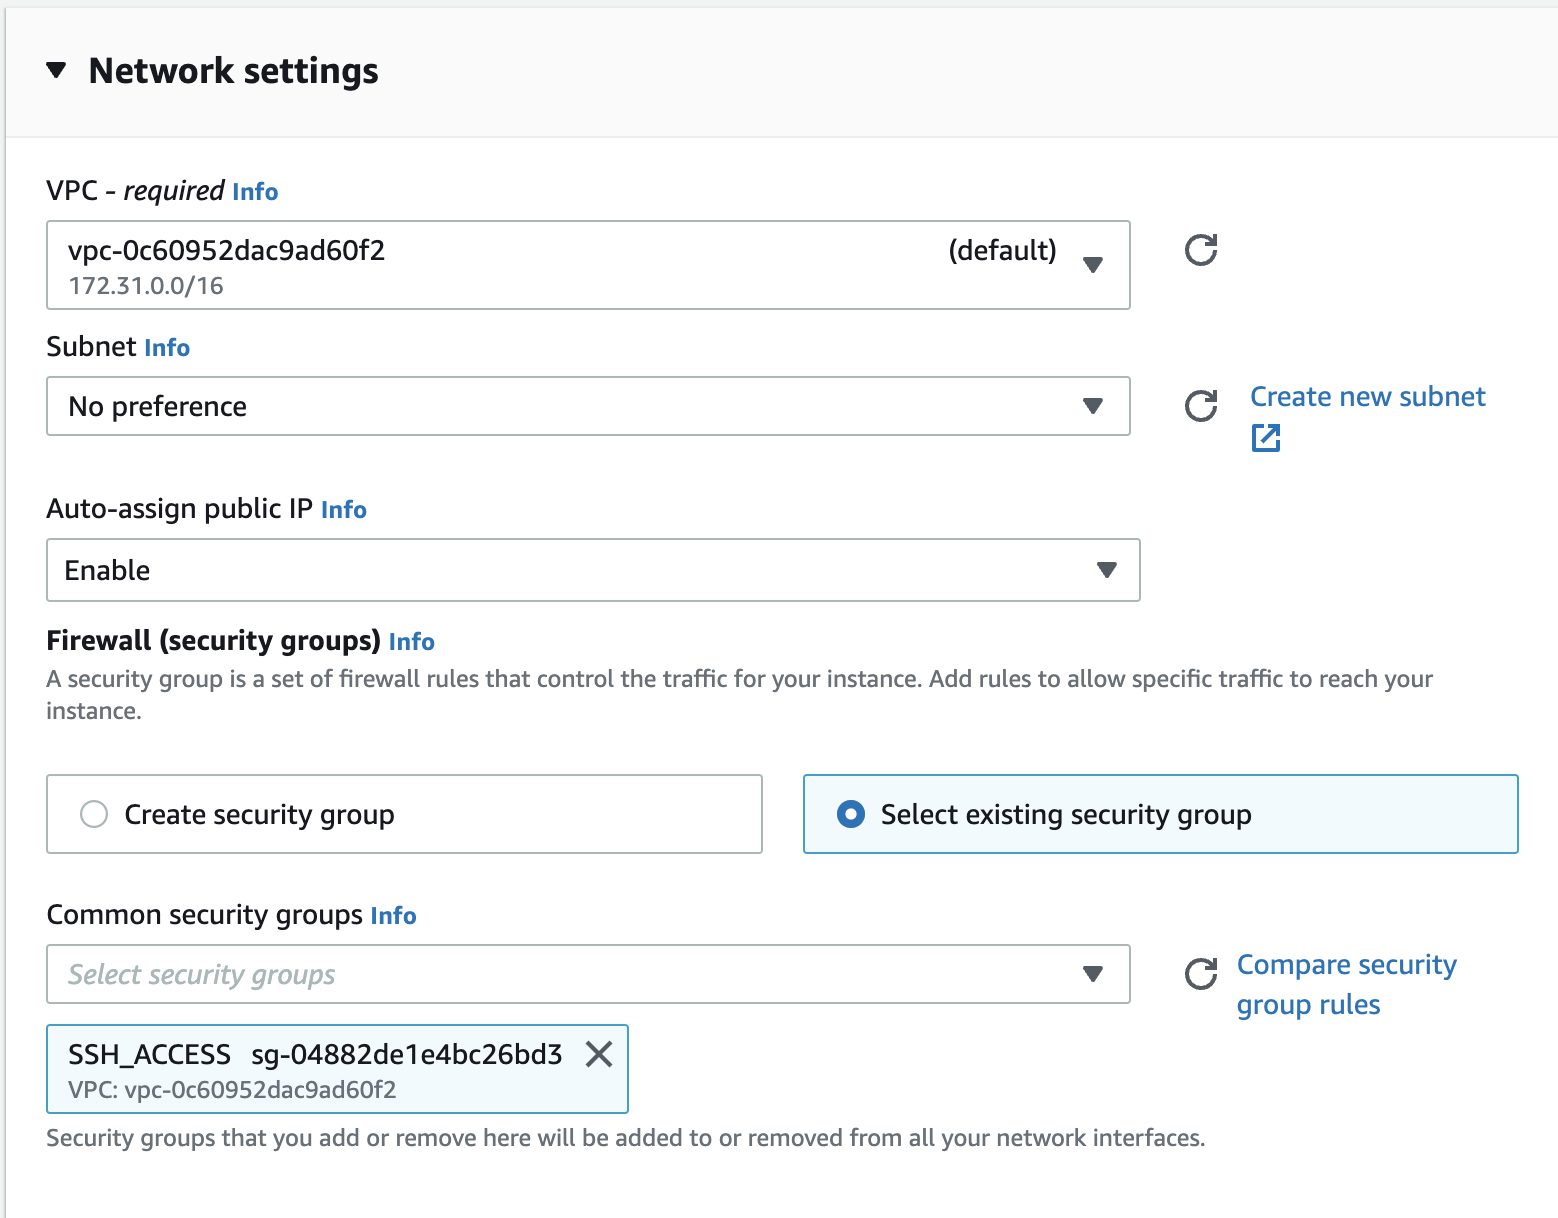
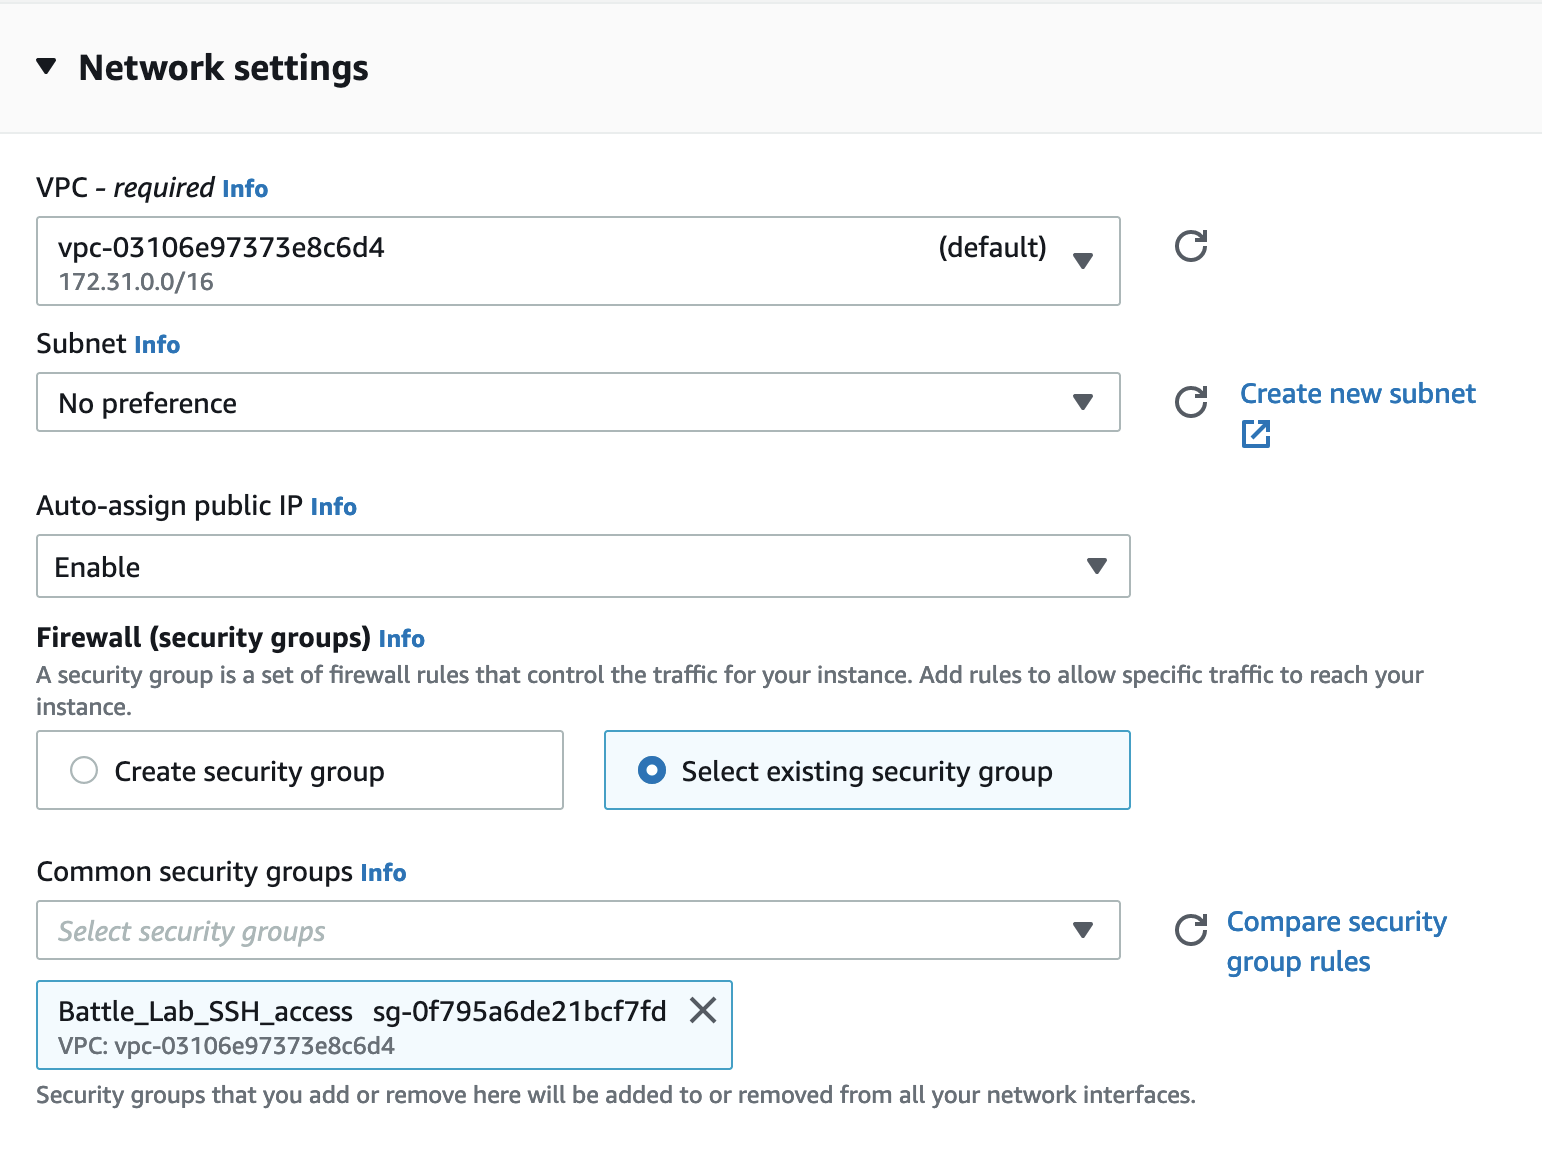
changed security group name

diff --git a/cloud_compute/Cloud Computing Guide.md b/cloud_compute/Cloud Computing Guide.md
@@ -94,7 +94,7 @@ If this is your first time, select "Create new key pair". Give the key pair name
 
 **Network settings**
 
-Under "Firewall (security groups)", choose "Select. existing security group" and pick "SSH_Access" from the drop down menu.
+Under "Firewall (security groups)", choose "Select. existing security group" and pick "Battle_Lab_SSH_access" from the drop down menu.
 
 <img src="Cloud Computing Guide pics/security group.png" alt="login" style="zoom:40%;"/>
 
